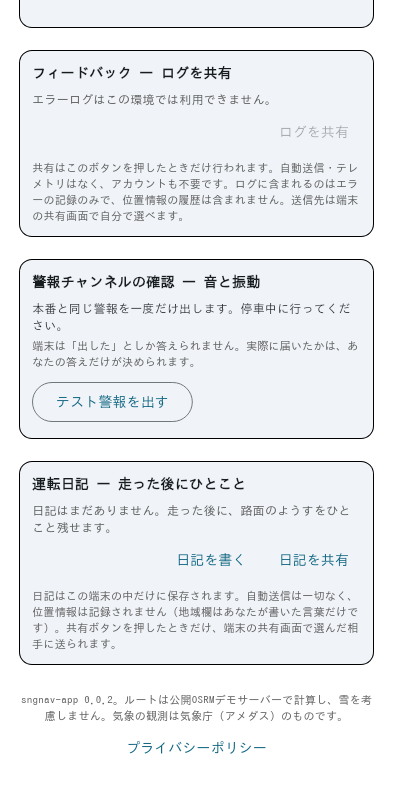
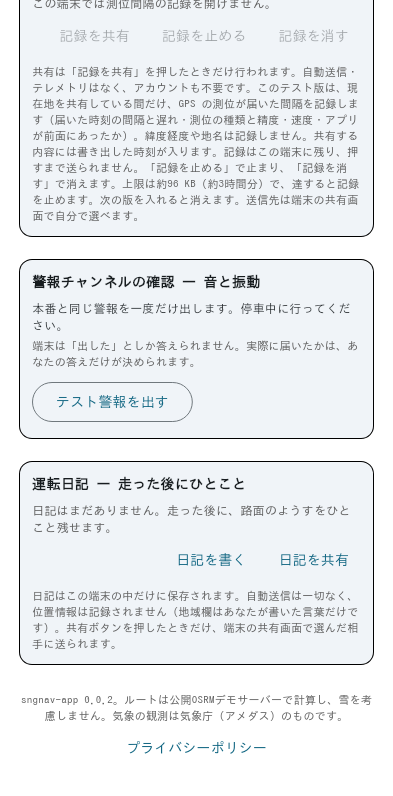
Code 13 only: declare the record's card on his page, and its frame
The guard that pins the cards on her page caught the new card, as it
exists to: adding a card to the driver's page must be a deliberate act.
It is declared there with its reasons. It is on his page and not the
development page because the man driving it shares it from a release
build, which has no development page; it is its own card so the ログを共有
card's words stay true. His page goes from 10 cards to 11, in this build
only, and whether that costs the glance is for the display review.

The diary card's capture frames what is above it, and the record's card
is now there. Updated and looked at: the diary card is unchanged, and
above it the record's card, with no record injected in that capture,
says it cannot be opened and offers no action. The entry form's capture
is unchanged.

Changed region(s): [[0.0916, 0.0, 0.916, 0.3015]]

diff --git a/test/widgets/developer_page_test.dart b/test/widgets/developer_page_test.dart
@@ -37,6 +37,14 @@ List<String> _herTitles(AppL10n l) => [
       l.prefectureObservationsSectionTitle,
       l.advisoriesSectionTitle,
       l.logShareSectionTitle,
+      // 2026-10-06, CODE 13 ONLY (a test build on a branch that is never
+      // merged): the fix-timing record's own card. DECLARED here, as this guard
+      // asks. Why it is on his page and not the development page: the record
+      // is shared by the man driving it, from a release build, and the
+      // development page is hard-gated on `!kReleaseMode`. Why its own card:
+      // so the ログを共有 card's words above stay true. Her page goes from 10
+      // cards to 11 in this build only.
+      l.fixTimingSectionTitle,
       // 2026-09-19 — the warning-channel check. DECLARED here, never
       // worked around: this guard exists so that adding a card to the driver's page is
       // a deliberate act, and it caught this one. Why it belongs on her page
